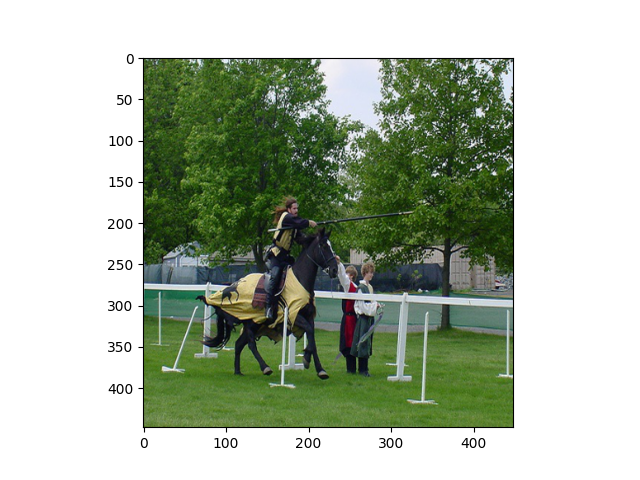
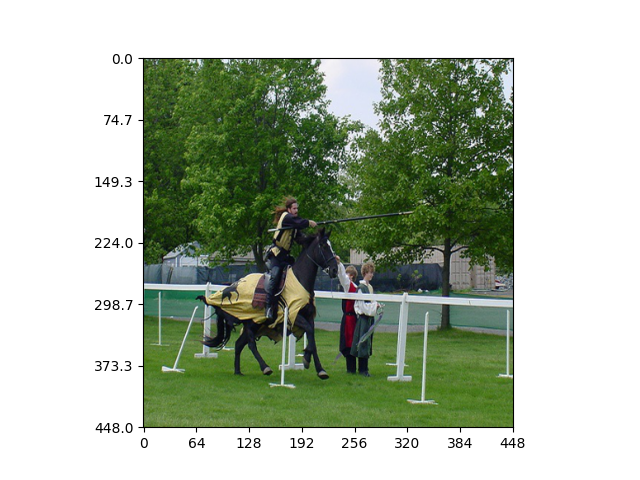
updated assets

diff --git a/2D_ObjectDetectors/yolov1/network/dataset.py b/2D_ObjectDetectors/yolov1/network/dataset.py
@@ -283,27 +283,27 @@ class VOCDataset(torch.utils.data.Dataset):
             # print(W, H, " >>> ", bw, bh)
             cx, cy = cx * W, cy * H
             bw, bh = bw * W, bh * H
-            # rec = patches.Rectangle(
-            #     (cx-bw//2, cy-bh//2), bw, bh, 
-            #     edgecolor="yellow", alpha=1.,
-            #     linewidth=1.5, facecolor="none", linestyle="-"
-            # )
-            # rec = patches.Rectangle(
-            #     (cx-bw//2, cy-bh//2), bw, bh, 
-            #     edgecolor="yellow", alpha=0.3,
-            #     linewidth=1.5, facecolor="y"
-            # )
-            # txt = ax.text(
-            #     (cx-bw//2), cy-(bh//2),  f"id: {class_ids[i]:0.2f} | pc: {scores[i]}", size=5, 
-            #     ha="left", va="bottom", alpha=1, color="white",
-            #     bbox=dict(facecolor="yellow", edgecolor="black", linewidth=1, alpha=0.3),
-            # )
+            rec = patches.Rectangle(
+                (cx-bw//2, cy-bh//2), bw, bh, 
+                edgecolor="yellow", alpha=1.,
+                linewidth=1.5, facecolor="none", linestyle="-"
+            )
+            rec = patches.Rectangle(
+                (cx-bw//2, cy-bh//2), bw, bh, 
+                edgecolor="yellow", alpha=0.3,
+                linewidth=1.5, facecolor="y"
+            )
+            txt = ax.text(
+                (cx-bw//2), cy-(bh//2),  f"id: {class_ids[i]:0.2f} | pc: {scores[i]}", size=5, 
+                ha="left", va="bottom", alpha=1, color="white",
+                bbox=dict(facecolor="yellow", edgecolor="black", linewidth=1, alpha=0.3),
+            )
             ax.imshow(image)
-            # ax.add_patch(rec)
+            ax.add_patch(rec)
+            ax.add_artist(plt.Circle((cx, cy), 5))
+            ax.set_xticks(np.linspace(0, 448, num=8))
+            ax.set_yticks(np.linspace(0, 448, num=8))
+            ax.grid(True)
             # plt.pause(0.5)
-            # ax.add_artist(plt.Circle((cx, cy), 5))
-            ax.set_xticks(np.linspace(0, 448, num=7))
-            # ax.set_yticks(np.linspace(0, 448, num=7))
-            # ax.grid(True)
         plt.show()
     

diff --git a/2D_ObjectDetectors/yolov1/network/test/test_dataset.py b/2D_ObjectDetectors/yolov1/network/test/test_dataset.py
@@ -102,7 +102,7 @@ class TestModel(TestCase):
         #     [0.612, 0.709, 0.084, 0.347], decimal=3
         # )
         org_size = (500, 375)
-        VOCDataset.show_boxes(imgsrc, denormed_boxes, class_ids, scores, org_size)
+        VOCDataset.show_boxes(imgsrc, denormed_boxes, class_ids, scores)
         imgsrc.close()
 
 
